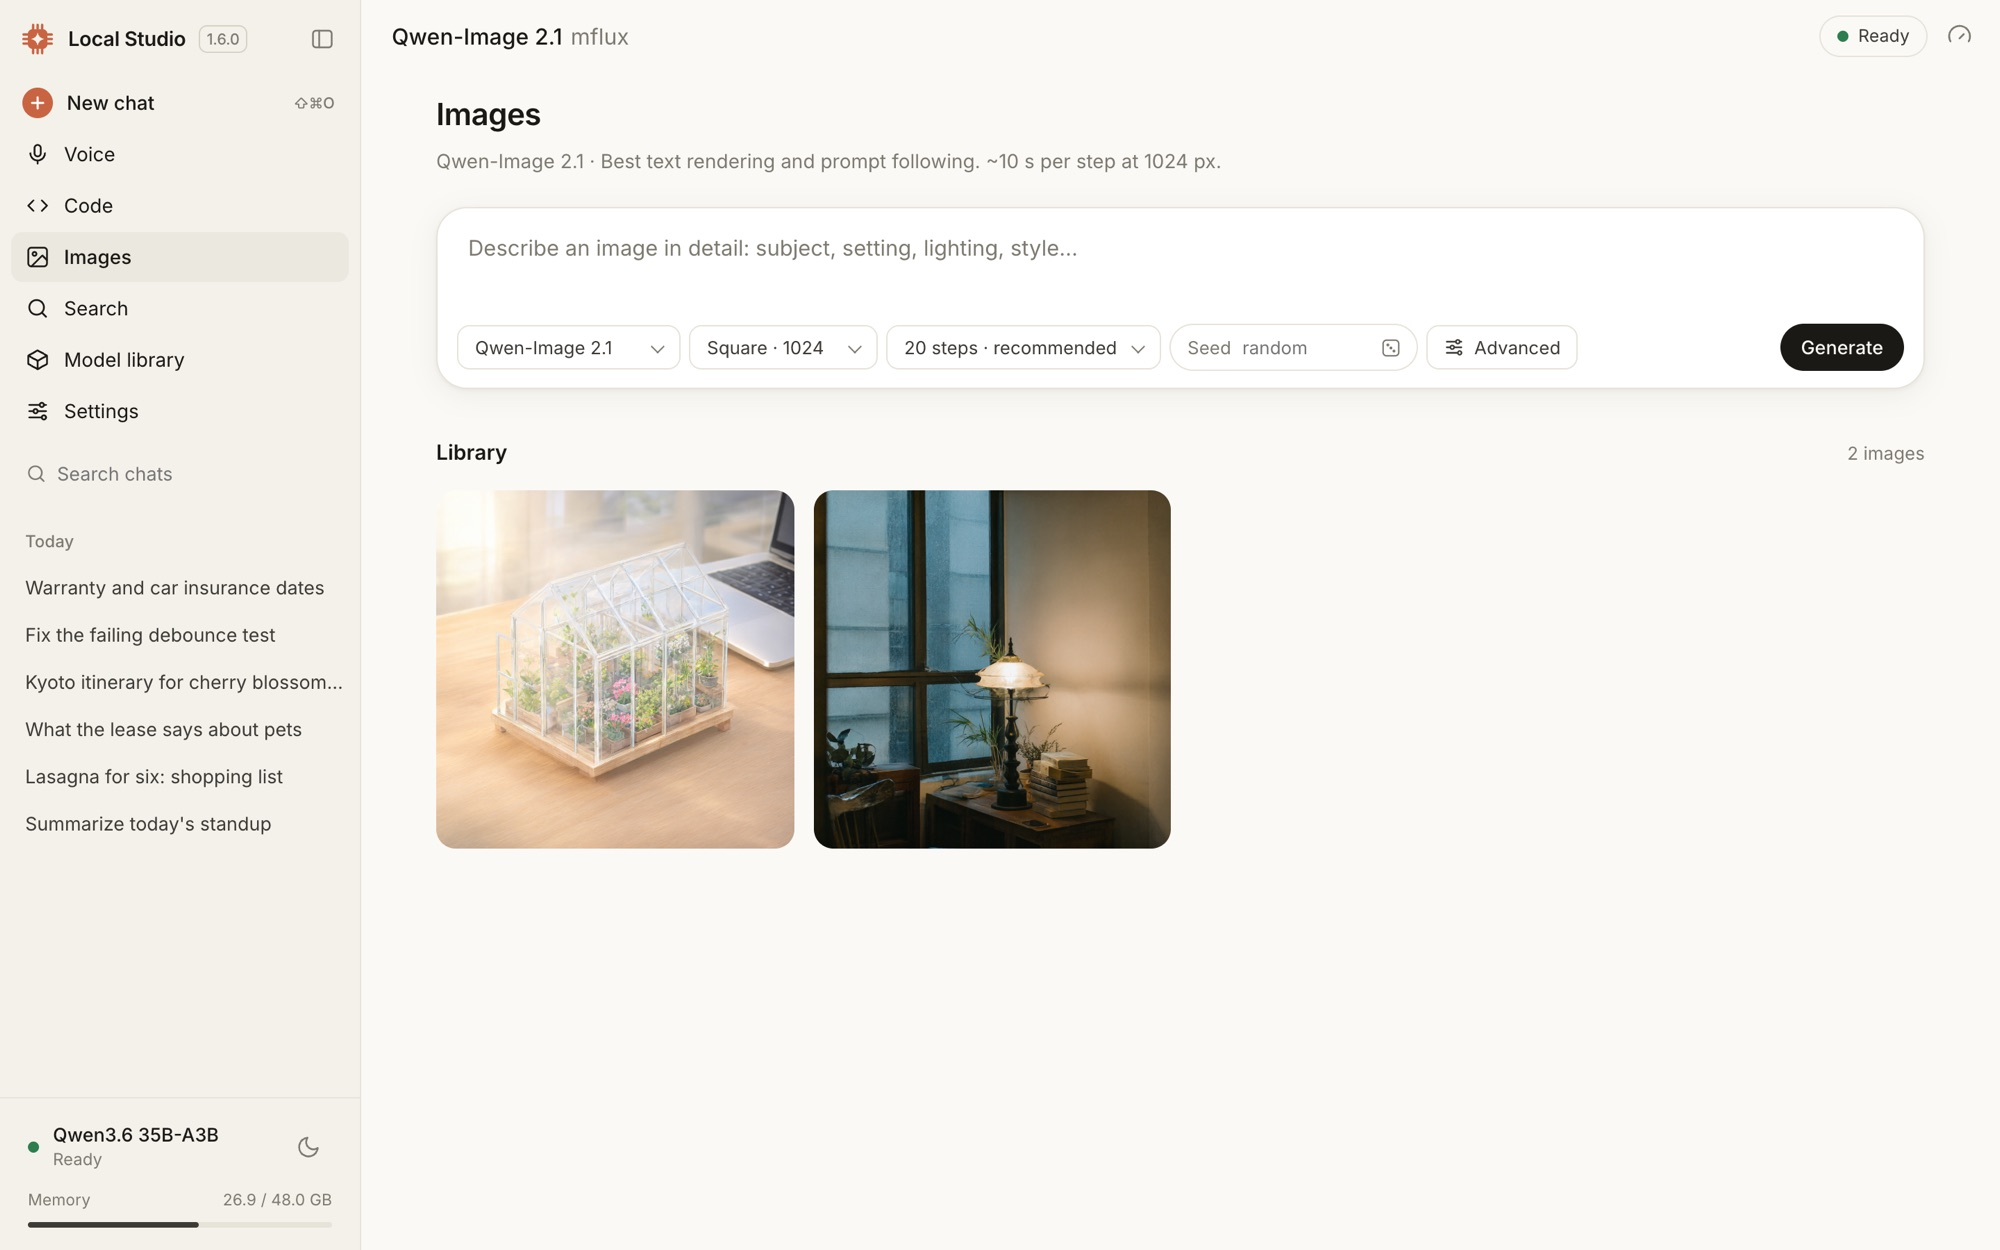
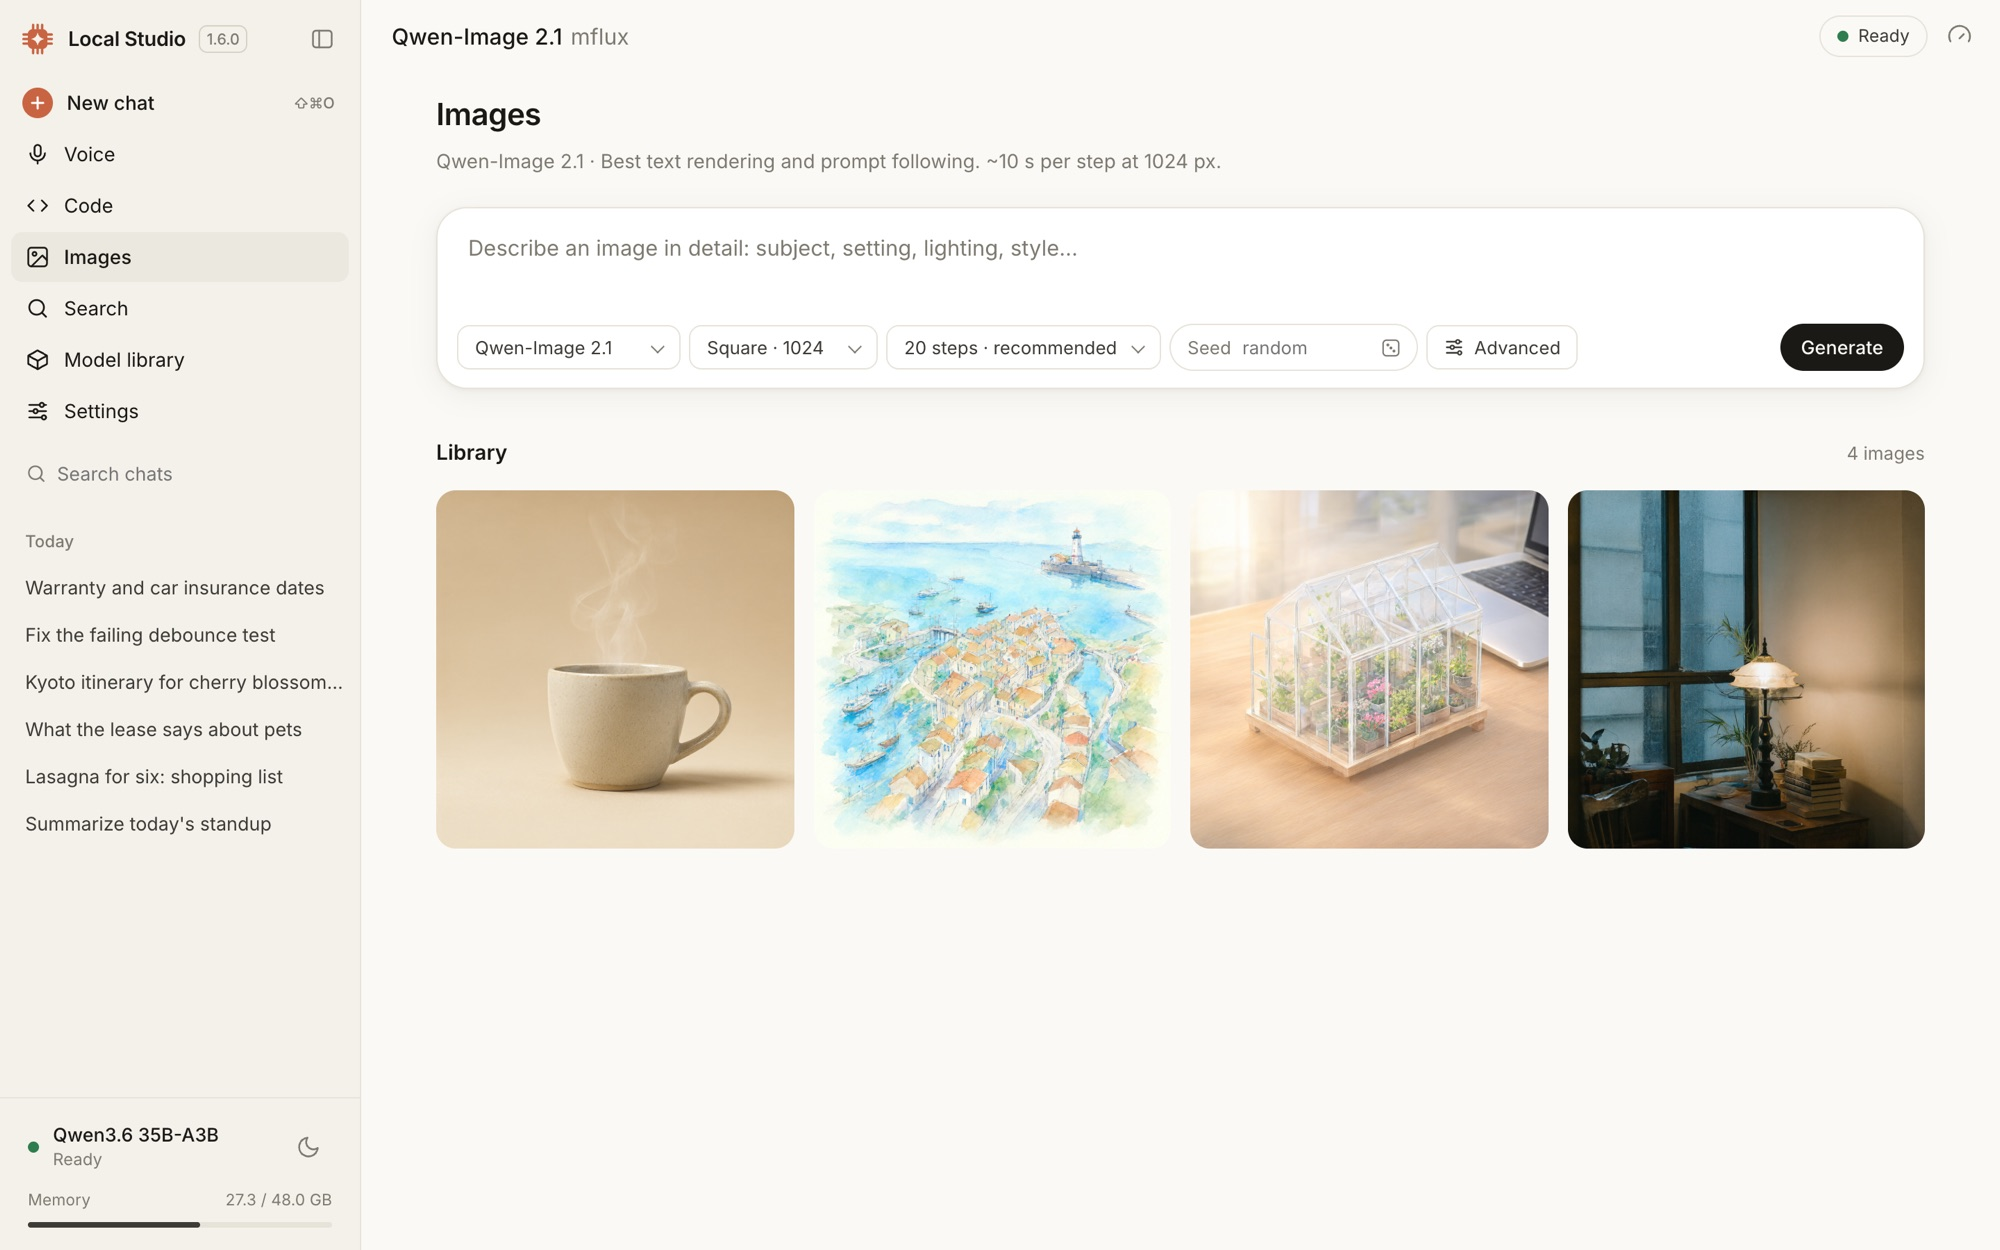
README: plain lists for requirements, optional features and privacy; four images in the Images shot

Changed region(s): [[0.217, 0.3744, 0.961, 0.6864]]

diff --git a/README.md b/README.md
@@ -90,20 +90,21 @@ The [guide](docs/GUIDE.md) covers every tool, limit and setting.
 The DMG is signed with a Developer ID and notarized by Apple, so it opens without a warning. Each release lists its
 SHA-256.
 
-| You need | |
-|---|---|
-| Mac | Apple Silicon (M1 or newer), macOS 14 Sonoma or later |
-| Memory | 16 GB for small models, 32 GB or more for the larger ones (48 GB recommended) |
-| Disk | About 3 GB for the engines, plus 3–25 GB per model |
-| Internet | For setup, model downloads and web search; everything else works offline |
+**You need:**
+- **Mac:** Apple Silicon (M1 or newer), macOS 14 Sonoma or later.
+- **Memory:** 16 GB for small models, 32 GB or more for the larger ones; 48 GB is recommended.
+- **Disk:** about 3 GB for the engines, plus 3–25 GB per model.
+- **Internet:** for setup, model downloads and web search. Everything else works offline.
 
 ### Optional features
 
-| Feature | Turn it on |
-|---|---|
-| **Search your files** | Settings → Search. It downloads its model (1.3 GB) and components (about 1 GB) once, then indexes in the background. |
-| **Computer use** | Settings → Computer access. Needs [CuaDriver](https://github.com/trycua/cua) 0.28.2 or newer, its Accessibility and Screen Recording permissions, and Google Chrome. |
-| **Voice** *(preview)* | Add `"voice": {"enabled": true}` to `~/Library/Application Support/Local Studio/data/settings.json` and reopen the app. See the [guide](docs/GUIDE.md#voice-preview). |
+- **Search your files:** Settings → Search. It downloads its model (1.3 GB) and components (about 1 GB) once, then
+  indexes in the background.
+- **Computer use:** Settings → Computer access. It needs [CuaDriver](https://github.com/trycua/cua) 0.28.2 or newer,
+  with its Accessibility and Screen Recording permissions, and Google Chrome.
+- **Voice** *(preview):* add `"voice": {"enabled": true}` to
+  `~/Library/Application Support/Local Studio/data/settings.json`, then reopen the app. See the
+  [guide](docs/GUIDE.md#voice-preview).
 
 ### Handy shortcuts
 
@@ -117,14 +118,8 @@ SHA-256.
 
 ## Privacy
 
-**On your Mac:**
-- the models;
-- your conversations;
-- attached files;
-- the file index and the previews it shows;
-- voice audio, which is never saved.
-
-The interface itself is bundled with the app, fonts included.
+**Stays on your Mac:** the models, your conversations, attached files, the file index and its previews, and voice audio
+(which is never saved). The interface is bundled with the app, fonts included.
 
 **What goes out, and only when needed:**
 - Setup downloads the engines from PyPI, GitHub and astral.sh (uv), and models come from Hugging Face.
